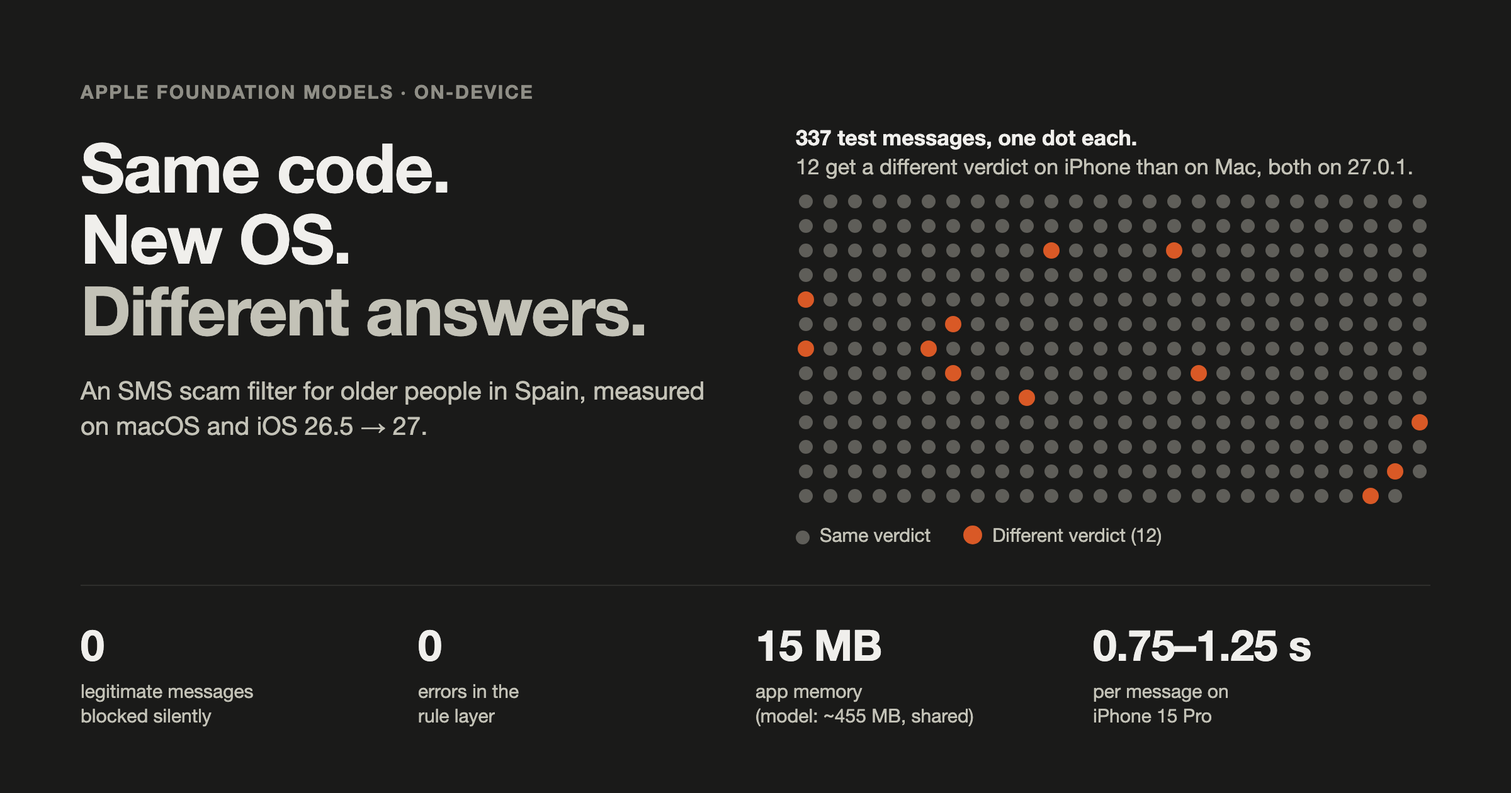
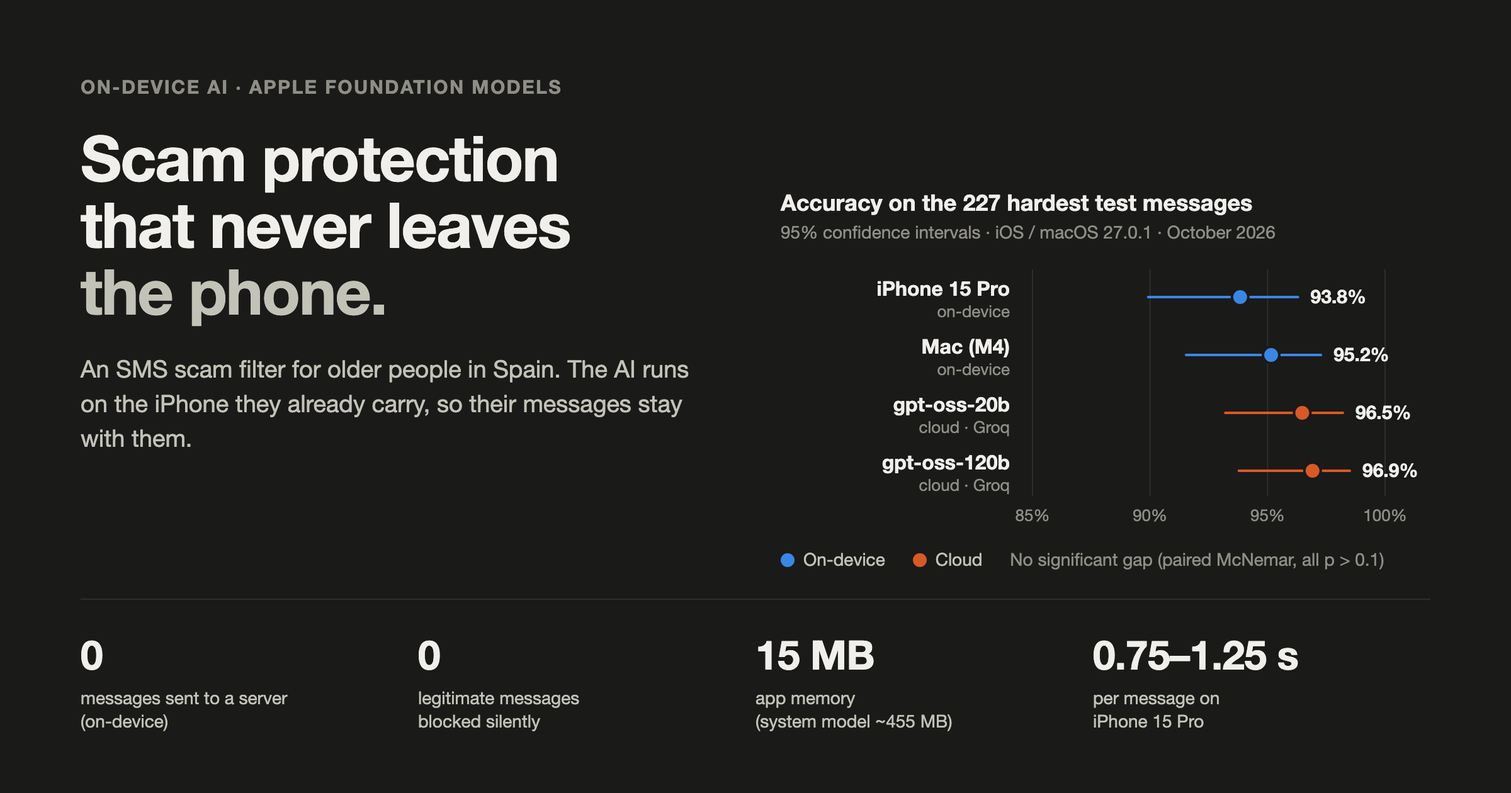
Redesign hero image around results and motivation

diff --git a/assets/hero.html b/assets/hero.html
@@ -1,30 +1,32 @@
 <!doctype html><html><head><meta charset="utf-8">
 <style>
-:root { --surface:#1a1a19; --text:#f0efec; --text2:#c3c2b7; --muted:#8f8e86; --rest:#5f5e59; --hi:#d95926; --rule:#2e2e2c; }
+:root { --surface:#1a1a19; --text:#f0efec; --text2:#c3c2b7; --muted:#8f8e86; --grid:#2e2e2c; --rule:#2e2e2c; --dev:#3987e5; --cloud:#d95926; }
 * { margin:0; box-sizing:border-box; }
 html,body { width:1200px; height:630px; background:var(--surface); font-family:-apple-system,"SF Pro Display","Helvetica Neue",Arial,sans-serif; color:var(--text); overflow:hidden; }
-.left { position:absolute; left:64px; top:64px; width:520px; }
+.left { position:absolute; left:64px; top:60px; width:500px; }
 .eyebrow { font-size:15px; letter-spacing:.08em; text-transform:uppercase; color:var(--muted); font-weight:600; }
-h1 { font-size:54px; line-height:1.05; font-weight:700; letter-spacing:-.02em; margin-top:22px; }
-h1 span { color:var(--text2); font-weight:600; }
-.sub { font-size:20px; line-height:1.4; color:var(--text2); margin-top:22px; }
-.cap { position:absolute; left:632px; top:98px; width:520px; font-size:17px; color:var(--text2); line-height:1.35; }
-.cap b { color:var(--text); font-weight:600; }
-.legend { position:absolute; left:632px; top:416px; font-size:15px; color:var(--text2); display:flex; gap:26px; }
-.legend i { display:inline-block; border-radius:50%; margin-right:8px; vertical-align:-2px; }
-.stats { position:absolute; left:64px; right:64px; bottom:52px; display:flex; border-top:1px solid var(--rule); padding-top:26px; }
+h1 { font-size:50px; line-height:1.06; font-weight:700; letter-spacing:-.02em; margin-top:20px; }
+h1 span { color:var(--text2); }
+.sub { font-size:19px; line-height:1.45; color:var(--text2); margin-top:22px; }
+.ct { position:absolute; left:620px; top:150px; width:520px; }
+.ct b { display:block; font-size:18px; font-weight:600; }
+.ct span { display:block; font-size:14px; color:var(--muted); margin-top:4px; }
+.legend { position:absolute; left:620px; top:436px; font-size:14px; color:var(--text2); display:flex; gap:22px; align-items:center; }
+.legend i { display:inline-block; width:11px; height:11px; border-radius:50%; margin-right:7px; vertical-align:-1px; }
+.legend em { font-style:normal; color:var(--muted); }
+.stats { position:absolute; left:64px; right:64px; bottom:48px; display:flex; border-top:1px solid var(--rule); padding-top:24px; }
 .stat { flex:1; }
-.stat .v { font-size:34px; font-weight:700; letter-spacing:-.01em; }
-.stat .l { font-size:15px; color:var(--text2); margin-top:6px; line-height:1.3; }
-svg { position:absolute; left:0; top:0; }
+.stat .v { font-size:32px; font-weight:700; letter-spacing:-.01em; }
+.stat .l { font-size:14px; color:var(--text2); margin-top:6px; line-height:1.3; }
+svg { position:absolute; left:0; top:0; font-family:inherit; }
 </style></head><body>
 <div class="left">
-  <div class="eyebrow">Apple Foundation Models · on-device</div>
-  <h1>Same code.<br>New OS.<br><span>Different answers.</span></h1>
-  <div class="sub">An SMS scam filter for older people in Spain, measured on macOS&nbsp;and&nbsp;iOS 26.5&nbsp;→&nbsp;27.</div>
+  <div class="eyebrow">On-device AI · Apple Foundation Models</div>
+  <h1>Scam protection<br>that never leaves<br><span>the phone.</span></h1>
+  <div class="sub">An SMS scam filter for older people in Spain. The AI runs on the iPhone they already carry, so their messages stay with them.</div>
 </div>
-<div class="cap"><b>337 test messages, one dot each.</b><br>12 get a different verdict on iPhone than on Mac, both on 27.0.1.</div>
-<svg width="1200" height="630" viewBox="0 0 1200 630"><circle cx="640.0" cy="160.0" r="5.5" fill="var(--rest)"/><circle cx="659.5" cy="160.0" r="5.5" fill="var(--rest)"/><circle cx="679.0" cy="160.0" r="5.5" fill="var(--rest)"/><circle cx="698.5" cy="160.0" r="5.5" fill="var(--rest)"/><circle cx="718.0" cy="160.0" r="5.5" fill="var(--rest)"/><circle cx="737.5" cy="160.0" r="5.5" fill="var(--rest)"/><circle cx="757.0" cy="160.0" r="5.5" fill="var(--rest)"/><circle cx="776.5" cy="160.0" r="5.5" fill="var(--rest)"/><circle cx="796.0" cy="160.0" r="5.5" fill="var(--rest)"/><circle cx="815.5" cy="160.0" r="5.5" fill="var(--rest)"/><circle cx="835.0" cy="160.0" r="5.5" fill="var(--rest)"/><circle cx="854.5" cy="160.0" r="5.5" fill="var(--rest)"/><circle cx="874.0" cy="160.0" r="5.5" fill="var(--rest)"/><circle cx="893.5" cy="160.0" r="5.5" fill="var(--rest)"/><circle cx="913.0" cy="160.0" r="5.5" fill="var(--rest)"/><circle cx="932.5" cy="160.0" r="5.5" fill="var(--rest)"/><circle cx="952.0" cy="160.0" r="5.5" fill="var(--rest)"/><circle cx="971.5" cy="160.0" r="5.5" fill="var(--rest)"/><circle cx="991.0" cy="160.0" r="5.5" fill="var(--rest)"/><circle cx="1010.5" cy="160.0" r="5.5" fill="var(--rest)"/><circle cx="1030.0" cy="160.0" r="5.5" fill="var(--rest)"/><circle cx="1049.5" cy="160.0" r="5.5" fill="var(--rest)"/><circle cx="1069.0" cy="160.0" r="5.5" fill="var(--rest)"/><circle cx="1088.5" cy="160.0" r="5.5" fill="var(--rest)"/><circle cx="1108.0" cy="160.0" r="5.5" fill="var(--rest)"/><circle cx="1127.5" cy="160.0" r="5.5" fill="var(--rest)"/><circle cx="640.0" cy="179.5" r="5.5" fill="var(--rest)"/><circle cx="659.5" cy="179.5" r="5.5" fill="var(--rest)"/><circle cx="679.0" cy="179.5" r="5.5" fill="var(--rest)"/><circle cx="698.5" cy="179.5" r="5.5" fill="var(--rest)"/><circle cx="718.0" cy="179.5" r="5.5" fill="var(--rest)"/><circle cx="737.5" cy="179.5" r="5.5" fill="var(--rest)"/><circle cx="757.0" cy="179.5" r="5.5" fill="var(--rest)"/><circle cx="776.5" cy="179.5" r="5.5" fill="var(--rest)"/><circle cx="796.0" cy="179.5" r="5.5" fill="var(--rest)"/><circle cx="815.5" cy="179.5" r="5.5" fill="var(--rest)"/><circle cx="835.0" cy="179.5" r="5.5" fill="var(--rest)"/><circle cx="854.5" cy="179.5" r="5.5" fill="var(--rest)"/><circle cx="874.0" cy="179.5" r="5.5" fill="var(--rest)"/><circle cx="893.5" cy="179.5" r="5.5" fill="var(--rest)"/><circle cx="913.0" cy="179.5" r="5.5" fill="var(--rest)"/><circle cx="932.5" cy="179.5" r="5.5" fill="var(--rest)"/><circle cx="952.0" cy="179.5" r="5.5" fill="var(--rest)"/><circle cx="971.5" cy="179.5" r="5.5" fill="var(--rest)"/><circle cx="991.0" cy="179.5" r="5.5" fill="var(--rest)"/><circle cx="1010.5" cy="179.5" r="5.5" fill="var(--rest)"/><circle cx="1030.0" cy="179.5" r="5.5" fill="var(--rest)"/><circle cx="1049.5" cy="179.5" r="5.5" fill="var(--rest)"/><circle cx="1069.0" cy="179.5" r="5.5" fill="var(--rest)"/><circle cx="1088.5" cy="179.5" r="5.5" fill="var(--rest)"/><circle cx="1108.0" cy="179.5" r="5.5" fill="var(--rest)"/><circle cx="1127.5" cy="179.5" r="5.5" fill="var(--rest)"/><circle cx="640.0" cy="199.0" r="5.5" fill="var(--rest)"/><circle cx="659.5" cy="199.0" r="5.5" fill="var(--rest)"/><circle cx="679.0" cy="199.0" r="5.5" fill="var(--rest)"/><circle cx="698.5" cy="199.0" r="5.5" fill="var(--rest)"/><circle cx="718.0" cy="199.0" r="5.5" fill="var(--rest)"/><circle cx="737.5" cy="199.0" r="5.5" fill="var(--rest)"/><circle cx="757.0" cy="199.0" r="5.5" fill="var(--rest)"/><circle cx="776.5" cy="199.0" r="5.5" fill="var(--rest)"/><circle cx="796.0" cy="199.0" r="5.5" fill="var(--rest)"/><circle cx="815.5" cy="199.0" r="5.5" fill="var(--rest)"/><circle cx="835.0" cy="199.0" r="7.5" fill="var(--hi)" stroke="var(--surface)" stroke-width="2"/><circle cx="854.5" cy="199.0" r="5.5" fill="var(--rest)"/><circle cx="874.0" cy="199.0" r="5.5" fill="var(--rest)"/><circle cx="893.5" cy="199.0" r="5.5" fill="var(--rest)"/><circle cx="913.0" cy="199.0" r="5.5" fill="var(--rest)"/><circle cx="932.5" cy="199.0" r="7.5" fill="var(--hi)" stroke="var(--surface)" stroke-width="2"/><circle cx="952.0" cy="199.0" r="5.5" fill="var(--rest)"/><circle cx="971.5" cy="199.0" r="5.5" fill="var(--rest)"/><circle cx="991.0" cy="199.0" r="5.5" fill="var(--rest)"/><circle cx="1010.5" cy="199.0" r="5.5" fill="var(--rest)"/><circle cx="1030.0" cy="199.0" r="5.5" fill="var(--rest)"/><circle cx="1049.5" cy="199.0" r="5.5" fill="var(--rest)"/><circle cx="1069.0" cy="199.0" r="5.5" fill="var(--rest)"/><circle cx="1088.5" cy="199.0" r="5.5" fill="var(--rest)"/><circle cx="1108.0" cy="199.0" r="5.5" fill="var(--rest)"/><circle cx="1127.5" cy="199.0" r="5.5" fill="var(--rest)"/><circle cx="640.0" cy="218.5" r="5.5" fill="var(--rest)"/><circle cx="659.5" cy="218.5" r="5.5" fill="var(--rest)"/><circle cx="679.0" cy="218.5" r="5.5" fill="var(--rest)"/><circle cx="698.5" cy="218.5" r="5.5" fill="var(--rest)"/><circle cx="718.0" cy="218.5" r="5.5" fill="var(--rest)"/><circle cx="737.5" cy="218.5" r="5.5" fill="var(--rest)"/><circle cx="757.0" cy="218.5" r="5.5" fill="var(--rest)"/><circle cx="776.5" cy="218.5" r="5.5" fill="var(--rest)"/><circle cx="796.0" cy="218.5" r="5.5" fill="var(--rest)"/><circle cx="815.5" cy="218.5" r="5.5" fill="var(--rest)"/><circle cx="835.0" cy="218.5" r="5.5" fill="var(--rest)"/><circle cx="854.5" cy="218.5" r="5.5" fill="var(--rest)"/><circle cx="874.0" cy="218.5" r="5.5" fill="var(--rest)"/><circle cx="893.5" cy="218.5" r="5.5" fill="var(--rest)"/><circle cx="913.0" cy="218.5" r="5.5" fill="var(--rest)"/><circle cx="932.5" cy="218.5" r="5.5" fill="var(--rest)"/><circle cx="952.0" cy="218.5" r="5.5" fill="var(--rest)"/><circle cx="971.5" cy="218.5" r="5.5" fill="var(--rest)"/><circle cx="991.0" cy="218.5" r="5.5" fill="var(--rest)"/><circle cx="1010.5" cy="218.5" r="5.5" fill="var(--rest)"/><circle cx="1030.0" cy="218.5" r="5.5" fill="var(--rest)"/><circle cx="1049.5" cy="218.5" r="5.5" fill="var(--rest)"/><circle cx="1069.0" cy="218.5" r="5.5" fill="var(--rest)"/><circle cx="1088.5" cy="218.5" r="5.5" fill="var(--rest)"/><circle cx="1108.0" cy="218.5" r="5.5" fill="var(--rest)"/><circle cx="1127.5" cy="218.5" r="5.5" fill="var(--rest)"/><circle cx="640.0" cy="238.0" r="7.5" fill="var(--hi)" stroke="var(--surface)" stroke-width="2"/><circle cx="659.5" cy="238.0" r="5.5" fill="var(--rest)"/><circle cx="679.0" cy="238.0" r="5.5" fill="var(--rest)"/><circle cx="698.5" cy="238.0" r="5.5" fill="var(--rest)"/><circle cx="718.0" cy="238.0" r="5.5" fill="var(--rest)"/><circle cx="737.5" cy="238.0" r="5.5" fill="var(--rest)"/><circle cx="757.0" cy="238.0" r="5.5" fill="var(--rest)"/><circle cx="776.5" cy="238.0" r="5.5" fill="var(--rest)"/><circle cx="796.0" cy="238.0" r="5.5" fill="var(--rest)"/><circle cx="815.5" cy="238.0" r="5.5" fill="var(--rest)"/><circle cx="835.0" cy="238.0" r="5.5" fill="var(--rest)"/><circle cx="854.5" cy="238.0" r="5.5" fill="var(--rest)"/><circle cx="874.0" cy="238.0" r="5.5" fill="var(--rest)"/><circle cx="893.5" cy="238.0" r="5.5" fill="var(--rest)"/><circle cx="913.0" cy="238.0" r="5.5" fill="var(--rest)"/><circle cx="932.5" cy="238.0" r="5.5" fill="var(--rest)"/><circle cx="952.0" cy="238.0" r="5.5" fill="var(--rest)"/><circle cx="971.5" cy="238.0" r="5.5" fill="var(--rest)"/><circle cx="991.0" cy="238.0" r="5.5" fill="var(--rest)"/><circle cx="1010.5" cy="238.0" r="5.5" fill="var(--rest)"/><circle cx="1030.0" cy="238.0" r="5.5" fill="var(--rest)"/><circle cx="1049.5" cy="238.0" r="5.5" fill="var(--rest)"/><circle cx="1069.0" cy="238.0" r="5.5" fill="var(--rest)"/><circle cx="1088.5" cy="238.0" r="5.5" fill="var(--rest)"/><circle cx="1108.0" cy="238.0" r="5.5" fill="var(--rest)"/><circle cx="1127.5" cy="238.0" r="5.5" fill="var(--rest)"/><circle cx="640.0" cy="257.5" r="5.5" fill="var(--rest)"/><circle cx="659.5" cy="257.5" r="5.5" fill="var(--rest)"/><circle cx="679.0" cy="257.5" r="5.5" fill="var(--rest)"/><circle cx="698.5" cy="257.5" r="5.5" fill="var(--rest)"/><circle cx="718.0" cy="257.5" r="5.5" fill="var(--rest)"/><circle cx="737.5" cy="257.5" r="5.5" fill="var(--rest)"/><circle cx="757.0" cy="257.5" r="7.5" fill="var(--hi)" stroke="var(--surface)" stroke-width="2"/><circle cx="776.5" cy="257.5" r="5.5" fill="var(--rest)"/><circle cx="796.0" cy="257.5" r="5.5" fill="var(--rest)"/><circle cx="815.5" cy="257.5" r="5.5" fill="var(--rest)"/><circle cx="835.0" cy="257.5" r="5.5" fill="var(--rest)"/><circle cx="854.5" cy="257.5" r="5.5" fill="var(--rest)"/><circle cx="874.0" cy="257.5" r="5.5" fill="var(--rest)"/><circle cx="893.5" cy="257.5" r="5.5" fill="var(--rest)"/><circle cx="913.0" cy="257.5" r="5.5" fill="var(--rest)"/><circle cx="932.5" cy="257.5" r="5.5" fill="var(--rest)"/><circle cx="952.0" cy="257.5" r="5.5" fill="var(--rest)"/><circle cx="971.5" cy="257.5" r="5.5" fill="var(--rest)"/><circle cx="991.0" cy="257.5" r="5.5" fill="var(--rest)"/><circle cx="1010.5" cy="257.5" r="5.5" fill="var(--rest)"/><circle cx="1030.0" cy="257.5" r="5.5" fill="var(--rest)"/><circle cx="1049.5" cy="257.5" r="5.5" fill="var(--rest)"/><circle cx="1069.0" cy="257.5" r="5.5" fill="var(--rest)"/><circle cx="1088.5" cy="257.5" r="5.5" fill="var(--rest)"/><circle cx="1108.0" cy="257.5" r="5.5" fill="var(--rest)"/><circle cx="1127.5" cy="257.5" r="5.5" fill="var(--rest)"/><circle cx="640.0" cy="277.0" r="7.5" fill="var(--hi)" stroke="var(--surface)" stroke-width="2"/><circle cx="659.5" cy="277.0" r="5.5" fill="var(--rest)"/><circle cx="679.0" cy="277.0" r="5.5" fill="var(--rest)"/><circle cx="698.5" cy="277.0" r="5.5" fill="var(--rest)"/><circle cx="718.0" cy="277.0" r="5.5" fill="var(--rest)"/><circle cx="737.5" cy="277.0" r="7.5" fill="var(--hi)" stroke="var(--surface)" stroke-width="2"/><circle cx="757.0" cy="277.0" r="5.5" fill="var(--rest)"/><circle cx="776.5" cy="277.0" r="5.5" fill="var(--rest)"/><circle cx="796.0" cy="277.0" r="5.5" fill="var(--rest)"/><circle cx="815.5" cy="277.0" r="5.5" fill="var(--rest)"/><circle cx="835.0" cy="277.0" r="5.5" fill="var(--rest)"/><circle cx="854.5" cy="277.0" r="5.5" fill="var(--rest)"/><circle cx="874.0" cy="277.0" r="5.5" fill="var(--rest)"/><circle cx="893.5" cy="277.0" r="5.5" fill="var(--rest)"/><circle cx="913.0" cy="277.0" r="5.5" fill="var(--rest)"/><circle cx="932.5" cy="277.0" r="5.5" fill="var(--rest)"/><circle cx="952.0" cy="277.0" r="5.5" fill="var(--rest)"/><circle cx="971.5" cy="277.0" r="5.5" fill="var(--rest)"/><circle cx="991.0" cy="277.0" r="5.5" fill="var(--rest)"/><circle cx="1010.5" cy="277.0" r="5.5" fill="var(--rest)"/><circle cx="1030.0" cy="277.0" r="5.5" fill="var(--rest)"/><circle cx="1049.5" cy="277.0" r="5.5" fill="var(--rest)"/><circle cx="1069.0" cy="277.0" r="5.5" fill="var(--rest)"/><circle cx="1088.5" cy="277.0" r="5.5" fill="var(--rest)"/><circle cx="1108.0" cy="277.0" r="5.5" fill="var(--rest)"/><circle cx="1127.5" cy="277.0" r="5.5" fill="var(--rest)"/><circle cx="640.0" cy="296.5" r="5.5" fill="var(--rest)"/><circle cx="659.5" cy="296.5" r="5.5" fill="var(--rest)"/><circle cx="679.0" cy="296.5" r="5.5" fill="var(--rest)"/><circle cx="698.5" cy="296.5" r="5.5" fill="var(--rest)"/><circle cx="718.0" cy="296.5" r="5.5" fill="var(--rest)"/><circle cx="737.5" cy="296.5" r="5.5" fill="var(--rest)"/><circle cx="757.0" cy="296.5" r="7.5" fill="var(--hi)" stroke="var(--surface)" stroke-width="2"/><circle cx="776.5" cy="296.5" r="5.5" fill="var(--rest)"/><circle cx="796.0" cy="296.5" r="5.5" fill="var(--rest)"/><circle cx="815.5" cy="296.5" r="5.5" fill="var(--rest)"/><circle cx="835.0" cy="296.5" r="5.5" fill="var(--rest)"/><circle cx="854.5" cy="296.5" r="5.5" fill="var(--rest)"/><circle cx="874.0" cy="296.5" r="5.5" fill="var(--rest)"/><circle cx="893.5" cy="296.5" r="5.5" fill="var(--rest)"/><circle cx="913.0" cy="296.5" r="5.5" fill="var(--rest)"/><circle cx="932.5" cy="296.5" r="5.5" fill="var(--rest)"/><circle cx="952.0" cy="296.5" r="7.5" fill="var(--hi)" stroke="var(--surface)" stroke-width="2"/><circle cx="971.5" cy="296.5" r="5.5" fill="var(--rest)"/><circle cx="991.0" cy="296.5" r="5.5" fill="var(--rest)"/><circle cx="1010.5" cy="296.5" r="5.5" fill="var(--rest)"/><circle cx="1030.0" cy="296.5" r="5.5" fill="var(--rest)"/><circle cx="1049.5" cy="296.5" r="5.5" fill="var(--rest)"/><circle cx="1069.0" cy="296.5" r="5.5" fill="var(--rest)"/><circle cx="1088.5" cy="296.5" r="5.5" fill="var(--rest)"/><circle cx="1108.0" cy="296.5" r="5.5" fill="var(--rest)"/><circle cx="1127.5" cy="296.5" r="5.5" fill="var(--rest)"/><circle cx="640.0" cy="316.0" r="5.5" fill="var(--rest)"/><circle cx="659.5" cy="316.0" r="5.5" fill="var(--rest)"/><circle cx="679.0" cy="316.0" r="5.5" fill="var(--rest)"/><circle cx="698.5" cy="316.0" r="5.5" fill="var(--rest)"/><circle cx="718.0" cy="316.0" r="5.5" fill="var(--rest)"/><circle cx="737.5" cy="316.0" r="5.5" fill="var(--rest)"/><circle cx="757.0" cy="316.0" r="5.5" fill="var(--rest)"/><circle cx="776.5" cy="316.0" r="5.5" fill="var(--rest)"/><circle cx="796.0" cy="316.0" r="5.5" fill="var(--rest)"/><circle cx="815.5" cy="316.0" r="7.5" fill="var(--hi)" stroke="var(--surface)" stroke-width="2"/><circle cx="835.0" cy="316.0" r="5.5" fill="var(--rest)"/><circle cx="854.5" cy="316.0" r="5.5" fill="var(--rest)"/><circle cx="874.0" cy="316.0" r="5.5" fill="var(--rest)"/><circle cx="893.5" cy="316.0" r="5.5" fill="var(--rest)"/><circle cx="913.0" cy="316.0" r="5.5" fill="var(--rest)"/><circle cx="932.5" cy="316.0" r="5.5" fill="var(--rest)"/><circle cx="952.0" cy="316.0" r="5.5" fill="var(--rest)"/><circle cx="971.5" cy="316.0" r="5.5" fill="var(--rest)"/><circle cx="991.0" cy="316.0" r="5.5" fill="var(--rest)"/><circle cx="1010.5" cy="316.0" r="5.5" fill="var(--rest)"/><circle cx="1030.0" cy="316.0" r="5.5" fill="var(--rest)"/><circle cx="1049.5" cy="316.0" r="5.5" fill="var(--rest)"/><circle cx="1069.0" cy="316.0" r="5.5" fill="var(--rest)"/><circle cx="1088.5" cy="316.0" r="5.5" fill="var(--rest)"/><circle cx="1108.0" cy="316.0" r="5.5" fill="var(--rest)"/><circle cx="1127.5" cy="316.0" r="5.5" fill="var(--rest)"/><circle cx="640.0" cy="335.5" r="5.5" fill="var(--rest)"/><circle cx="659.5" cy="335.5" r="5.5" fill="var(--rest)"/><circle cx="679.0" cy="335.5" r="5.5" fill="var(--rest)"/><circle cx="698.5" cy="335.5" r="5.5" fill="var(--rest)"/><circle cx="718.0" cy="335.5" r="5.5" fill="var(--rest)"/><circle cx="737.5" cy="335.5" r="5.5" fill="var(--rest)"/><circle cx="757.0" cy="335.5" r="5.5" fill="var(--rest)"/><circle cx="776.5" cy="335.5" r="5.5" fill="var(--rest)"/><circle cx="796.0" cy="335.5" r="5.5" fill="var(--rest)"/><circle cx="815.5" cy="335.5" r="5.5" fill="var(--rest)"/><circle cx="835.0" cy="335.5" r="5.5" fill="var(--rest)"/><circle cx="854.5" cy="335.5" r="5.5" fill="var(--rest)"/><circle cx="874.0" cy="335.5" r="5.5" fill="var(--rest)"/><circle cx="893.5" cy="335.5" r="5.5" fill="var(--rest)"/><circle cx="913.0" cy="335.5" r="5.5" fill="var(--rest)"/><circle cx="932.5" cy="335.5" r="5.5" fill="var(--rest)"/><circle cx="952.0" cy="335.5" r="5.5" fill="var(--rest)"/><circle cx="971.5" cy="335.5" r="5.5" fill="var(--rest)"/><circle cx="991.0" cy="335.5" r="5.5" fill="var(--rest)"/><circle cx="1010.5" cy="335.5" r="5.5" fill="var(--rest)"/><circle cx="1030.0" cy="335.5" r="5.5" fill="var(--rest)"/><circle cx="1049.5" cy="335.5" r="5.5" fill="var(--rest)"/><circle cx="1069.0" cy="335.5" r="5.5" fill="var(--rest)"/><circle cx="1088.5" cy="335.5" r="5.5" fill="var(--rest)"/><circle cx="1108.0" cy="335.5" r="5.5" fill="var(--rest)"/><circle cx="1127.5" cy="335.5" r="7.5" fill="var(--hi)" stroke="var(--surface)" stroke-width="2"/><circle cx="640.0" cy="355.0" r="5.5" fill="var(--rest)"/><circle cx="659.5" cy="355.0" r="5.5" fill="var(--rest)"/><circle cx="679.0" cy="355.0" r="5.5" fill="var(--rest)"/><circle cx="698.5" cy="355.0" r="5.5" fill="var(--rest)"/><circle cx="718.0" cy="355.0" r="5.5" fill="var(--rest)"/><circle cx="737.5" cy="355.0" r="5.5" fill="var(--rest)"/><circle cx="757.0" cy="355.0" r="5.5" fill="var(--rest)"/><circle cx="776.5" cy="355.0" r="5.5" fill="var(--rest)"/><circle cx="796.0" cy="355.0" r="5.5" fill="var(--rest)"/><circle cx="815.5" cy="355.0" r="5.5" fill="var(--rest)"/><circle cx="835.0" cy="355.0" r="5.5" fill="var(--rest)"/><circle cx="854.5" cy="355.0" r="5.5" fill="var(--rest)"/><circle cx="874.0" cy="355.0" r="5.5" fill="var(--rest)"/><circle cx="893.5" cy="355.0" r="5.5" fill="var(--rest)"/><circle cx="913.0" cy="355.0" r="5.5" fill="var(--rest)"/><circle cx="932.5" cy="355.0" r="5.5" fill="var(--rest)"/><circle cx="952.0" cy="355.0" r="5.5" fill="var(--rest)"/><circle cx="971.5" cy="355.0" r="5.5" fill="var(--rest)"/><circle cx="991.0" cy="355.0" r="5.5" fill="var(--rest)"/><circle cx="1010.5" cy="355.0" r="5.5" fill="var(--rest)"/><circle cx="1030.0" cy="355.0" r="5.5" fill="var(--rest)"/><circle cx="1049.5" cy="355.0" r="5.5" fill="var(--rest)"/><circle cx="1069.0" cy="355.0" r="5.5" fill="var(--rest)"/><circle cx="1088.5" cy="355.0" r="5.5" fill="var(--rest)"/><circle cx="1108.0" cy="355.0" r="5.5" fill="var(--rest)"/><circle cx="1127.5" cy="355.0" r="5.5" fill="var(--rest)"/><circle cx="640.0" cy="374.5" r="5.5" fill="var(--rest)"/><circle cx="659.5" cy="374.5" r="5.5" fill="var(--rest)"/><circle cx="679.0" cy="374.5" r="5.5" fill="var(--rest)"/><circle cx="698.5" cy="374.5" r="5.5" fill="var(--rest)"/><circle cx="718.0" cy="374.5" r="5.5" fill="var(--rest)"/><circle cx="737.5" cy="374.5" r="5.5" fill="var(--rest)"/><circle cx="757.0" cy="374.5" r="5.5" fill="var(--rest)"/><circle cx="776.5" cy="374.5" r="5.5" fill="var(--rest)"/><circle cx="796.0" cy="374.5" r="5.5" fill="var(--rest)"/><circle cx="815.5" cy="374.5" r="5.5" fill="var(--rest)"/><circle cx="835.0" cy="374.5" r="5.5" fill="var(--rest)"/><circle cx="854.5" cy="374.5" r="5.5" fill="var(--rest)"/><circle cx="874.0" cy="374.5" r="5.5" fill="var(--rest)"/><circle cx="893.5" cy="374.5" r="5.5" fill="var(--rest)"/><circle cx="913.0" cy="374.5" r="5.5" fill="var(--rest)"/><circle cx="932.5" cy="374.5" r="5.5" fill="var(--rest)"/><circle cx="952.0" cy="374.5" r="5.5" fill="var(--rest)"/><circle cx="971.5" cy="374.5" r="5.5" fill="var(--rest)"/><circle cx="991.0" cy="374.5" r="5.5" fill="var(--rest)"/><circle cx="1010.5" cy="374.5" r="5.5" fill="var(--rest)"/><circle cx="1030.0" cy="374.5" r="5.5" fill="var(--rest)"/><circle cx="1049.5" cy="374.5" r="5.5" fill="var(--rest)"/><circle cx="1069.0" cy="374.5" r="5.5" fill="var(--rest)"/><circle cx="1088.5" cy="374.5" r="5.5" fill="var(--rest)"/><circle cx="1108.0" cy="374.5" r="7.5" fill="var(--hi)" stroke="var(--surface)" stroke-width="2"/><circle cx="1127.5" cy="374.5" r="5.5" fill="var(--rest)"/><circle cx="640.0" cy="394.0" r="5.5" fill="var(--rest)"/><circle cx="659.5" cy="394.0" r="5.5" fill="var(--rest)"/><circle cx="679.0" cy="394.0" r="5.5" fill="var(--rest)"/><circle cx="698.5" cy="394.0" r="5.5" fill="var(--rest)"/><circle cx="718.0" cy="394.0" r="5.5" fill="var(--rest)"/><circle cx="737.5" cy="394.0" r="5.5" fill="var(--rest)"/><circle cx="757.0" cy="394.0" r="5.5" fill="var(--rest)"/><circle cx="776.5" cy="394.0" r="5.5" fill="var(--rest)"/><circle cx="796.0" cy="394.0" r="5.5" fill="var(--rest)"/><circle cx="815.5" cy="394.0" r="5.5" fill="var(--rest)"/><circle cx="835.0" cy="394.0" r="5.5" fill="var(--rest)"/><circle cx="854.5" cy="394.0" r="5.5" fill="var(--rest)"/><circle cx="874.0" cy="394.0" r="5.5" fill="var(--rest)"/><circle cx="893.5" cy="394.0" r="5.5" fill="var(--rest)"/><circle cx="913.0" cy="394.0" r="5.5" fill="var(--rest)"/><circle cx="932.5" cy="394.0" r="5.5" fill="var(--rest)"/><circle cx="952.0" cy="394.0" r="5.5" fill="var(--rest)"/><circle cx="971.5" cy="394.0" r="5.5" fill="var(--rest)"/><circle cx="991.0" cy="394.0" r="5.5" fill="var(--rest)"/><circle cx="1010.5" cy="394.0" r="5.5" fill="var(--rest)"/><circle cx="1030.0" cy="394.0" r="5.5" fill="var(--rest)"/><circle cx="1049.5" cy="394.0" r="5.5" fill="var(--rest)"/><circle cx="1069.0" cy="394.0" r="5.5" fill="var(--rest)"/><circle cx="1088.5" cy="394.0" r="7.5" fill="var(--hi)" stroke="var(--surface)" stroke-width="2"/><circle cx="1108.0" cy="394.0" r="5.5" fill="var(--rest)"/></svg>
-<div class="legend"><span><i style="width:11px;height:11px;background:var(--rest)"></i>Same verdict</span><span><i style="width:15px;height:15px;background:var(--hi)"></i>Different verdict (12)</span></div>
-<div class="stats"><div class="stat"><div class="v">0</div><div class="l">legitimate messages<br>blocked silently</div></div><div class="stat"><div class="v">0</div><div class="l">errors in the<br>rule layer</div></div><div class="stat"><div class="v">15 MB</div><div class="l">app memory<br>(model: ~455 MB, shared)</div></div><div class="stat"><div class="v">0.75–1.25 s</div><div class="l">per message on<br>iPhone 15 Pro</div></div></div>
+<div class="ct"><b>Accuracy on the 227 hardest test messages</b><span>95% confidence intervals · iOS / macOS 27.0.1 · October 2026</span></div>
+<svg width="1200" height="630" viewBox="0 0 1200 630"><line x1="820.0" y1="214" x2="820.0" y2="394" stroke="var(--grid)" stroke-width="1"/><text x="820.0" y="414" fill="var(--muted)" font-size="13" text-anchor="middle">85%</text><line x1="913.3" y1="214" x2="913.3" y2="394" stroke="var(--grid)" stroke-width="1"/><text x="913.3" y="414" fill="var(--muted)" font-size="13" text-anchor="middle">90%</text><line x1="1006.7" y1="214" x2="1006.7" y2="394" stroke="var(--grid)" stroke-width="1"/><text x="1006.7" y="414" fill="var(--muted)" font-size="13" text-anchor="middle">95%</text><line x1="1100.0" y1="214" x2="1100.0" y2="394" stroke="var(--grid)" stroke-width="1"/><text x="1100.0" y="414" fill="var(--muted)" font-size="13" text-anchor="middle">100%</text><text x="802" y="235" fill="var(--text)" font-size="16" font-weight="600" text-anchor="end">iPhone 15 Pro</text><text x="802" y="252" fill="var(--muted)" font-size="13" text-anchor="end">on-device</text><line x1="911.8" y1="236" x2="1030.8" y2="236" stroke="var(--dev)" stroke-width="2" stroke-linecap="round"/><circle cx="984.9" cy="236" r="6.5" fill="var(--dev)" stroke="var(--surface)" stroke-width="2"/><text x="1040.8" y="241" fill="var(--text)" font-size="15" font-weight="600">93.8%</text><text x="802" y="281" fill="var(--text)" font-size="16" font-weight="600" text-anchor="end">Mac (M4)</text><text x="802" y="298" fill="var(--muted)" font-size="13" text-anchor="end">on-device</text><line x1="941.9" y1="282" x2="1049.1" y2="282" stroke="var(--dev)" stroke-width="2" stroke-linecap="round"/><circle cx="1009.5" cy="282" r="6.5" fill="var(--dev)" stroke="var(--surface)" stroke-width="2"/><text x="1059.1" y="287" fill="var(--text)" font-size="15" font-weight="600">95.2%</text><text x="802" y="327" fill="var(--text)" font-size="16" font-weight="600" text-anchor="end">gpt-oss-20b</text><text x="802" y="344" fill="var(--muted)" font-size="13" text-anchor="end">cloud · Groq</text><line x1="973.1" y1="328" x2="1066.5" y2="328" stroke="var(--cloud)" stroke-width="2" stroke-linecap="round"/><circle cx="1034.2" cy="328" r="6.5" fill="var(--cloud)" stroke="var(--surface)" stroke-width="2"/><text x="1076.5" y="333" fill="var(--text)" font-size="15" font-weight="600">96.5%</text><text x="802" y="373" fill="var(--text)" font-size="16" font-weight="600" text-anchor="end">gpt-oss-120b</text><text x="802" y="390" fill="var(--muted)" font-size="13" text-anchor="end">cloud · Groq</text><line x1="983.8" y1="374" x2="1072.0" y2="374" stroke="var(--cloud)" stroke-width="2" stroke-linecap="round"/><circle cx="1042.4" cy="374" r="6.5" fill="var(--cloud)" stroke="var(--surface)" stroke-width="2"/><text x="1082.0" y="379" fill="var(--text)" font-size="15" font-weight="600">96.9%</text></svg>
+<div class="legend"><span><i style="background:var(--dev)"></i>On-device</span><span><i style="background:var(--cloud)"></i>Cloud</span><em>No significant gap (paired McNemar, all p&nbsp;&gt;&nbsp;0.1)</em></div>
+<div class="stats"><div class="stat"><div class="v">0</div><div class="l">messages sent to a server<br>(on-device)</div></div><div class="stat"><div class="v">0</div><div class="l">legitimate messages<br>blocked silently</div></div><div class="stat"><div class="v">15 MB</div><div class="l">app memory<br>(system model ~455 MB)</div></div><div class="stat"><div class="v">0.75–1.25 s</div><div class="l">per message on<br>iPhone 15 Pro</div></div></div>
 </body></html>

diff --git a/assets/make_hero.py b/assets/make_hero.py
@@ -3,75 +3,102 @@
 # Then render it to PNG (1200x630 at 2x) with any headless Chromium, for example:
 #   "/Applications/Google Chrome.app/Contents/MacOS/Google Chrome" --headless=new --hide-scrollbars \
 #     --force-device-scale-factor=2 --window-size=1200,630 --screenshot=assets/hero.png "file://$PWD/assets/hero.html"
-import json, csv, sys, os
-repo = sys.argv[1]; out = sys.argv[2]
+import csv, json, math, sys
 
-ids = []
-for d in ["es_curated", "es_adversarial_v2"]:
-    ids += [json.loads(l)["id"] for l in open(f"{repo}/data/{d}.jsonl", encoding="utf-8") if l.strip()]
-assert len(ids) == 337
+repo, out = sys.argv[1], sys.argv[2]
+R = f"{repo}/results/reference"
+labels = {json.loads(l)["id"]: json.loads(l)["label"]
+          for l in open(f"{repo}/data/es_adversarial_v2.jsonl", encoding="utf-8") if l.strip()}
 
-mac = {}
-for d in ["es_curated", "es_adversarial_v2"]:
-    for r in csv.DictReader(open(f"{repo}/results/reference/2026-10_macos27.0.1/{d}_predictions.csv", encoding="utf-8")):
-        mac[r["id"]] = r["pred"]
-ip = {}
-for l in open(f"{repo}/results/reference/2026-10_ios27.0.1_iphone15pro/run1_console.log", encoding="utf-8"):
-    p = l.rstrip("\n").split("\t")
-    if p[0] == "PRED" and p[1] in ("es_curated", "es_adversarial_v2"):
-        ip[p[2]] = p[3]
-diff = {i for i in ids if ip[i] != mac[i]}
-assert len(diff) == 12, len(diff)
+
+def from_csv(p):
+    return {r["id"]: r["pred"] for r in csv.DictReader(open(p, encoding="utf-8"))}
+
+
+def from_log(p):
+    d = {}
+    for l in open(p, encoding="utf-8"):
+        x = l.rstrip("\n").split("\t")
+        if x[0] == "PRED" and x[1] == "es_adversarial_v2":
+            d[x[2]] = x[3]
+    return d
+
+
+def wilson(k, n, z=1.96):
+    p = k / n; d = 1 + z * z / n; c = (p + z * z / (2 * n)) / d
+    h = z * math.sqrt(p * (1 - p) / n + z * z / (4 * n * n)) / d
+    return p, c - h, c + h
+
+
+runs = [  # (label, kind, predictions)
+    ("iPhone 15 Pro", "On-device", from_log(f"{R}/2026-10_ios27.0.1_iphone15pro/run1_console.log")),
+    ("Mac (M4)", "On-device", from_csv(f"{R}/2026-10_macos27.0.1/es_adversarial_v2_predictions.csv")),
+    ("gpt-oss-20b", "Cloud", from_csv(f"{R}/2026-10_groq/adv_v2_g20_run2_predictions.csv")),
+    ("gpt-oss-120b", "Cloud", from_csv(f"{R}/2026-10_groq/adv_v2_g120_run2_predictions.csv")),
+]
+rows = []
+for name, kind, p in runs:
+    k = sum((p[i] == "JUNK") == (labels[i] == "scam") for i in labels)
+    rows.append((name, kind, *wilson(k, len(labels))))
 
 W, H = 1200, 630
-cols, step = 26, 19.5
-gx, gy = 640, 160
-dots = []
-for k, i in enumerate(ids):
-    x = gx + (k % cols) * step; y = gy + (k // cols) * step
-    if i in diff:
-        dots.append(f'<circle cx="{x:.1f}" cy="{y:.1f}" r="7.5" fill="var(--hi)" stroke="var(--surface)" stroke-width="2"/>')
-    else:
-        dots.append(f'<circle cx="{x:.1f}" cy="{y:.1f}" r="5.5" fill="var(--rest)"/>')
-grid_bottom = gy + ((len(ids) - 1) // cols) * step
+px0, px1, lo, hi = 820, 1100, 0.85, 1.00          # plot x-range and value domain
+X = lambda v: px0 + (v - lo) / (hi - lo) * (px1 - px0)
+top, gap = 236, 46
+color = {"On-device": "var(--dev)", "Cloud": "var(--cloud)"}
+
+svg = []
+for t in (0.85, 0.90, 0.95, 1.00):
+    svg.append(f'<line x1="{X(t):.1f}" y1="{top-22}" x2="{X(t):.1f}" y2="{top+gap*3+20}" stroke="var(--grid)" stroke-width="1"/>')
+    svg.append(f'<text x="{X(t):.1f}" y="{top+gap*3+40}" fill="var(--muted)" font-size="13" text-anchor="middle">{int(t*100)}%</text>')
+for r, (name, kind, p, a, b) in enumerate(rows):
+    y = top + r * gap
+    svg.append(f'<text x="{px0-18}" y="{y-1}" fill="var(--text)" font-size="16" font-weight="600" text-anchor="end">{name}</text>')
+    svg.append(f'<text x="{px0-18}" y="{y+16}" fill="var(--muted)" font-size="13" text-anchor="end">{kind.lower()}{" · Groq" if kind == "Cloud" else ""}</text>')
+    svg.append(f'<line x1="{X(a):.1f}" y1="{y}" x2="{X(b):.1f}" y2="{y}" stroke="{color[kind]}" stroke-width="2" stroke-linecap="round"/>')
+    svg.append(f'<circle cx="{X(p):.1f}" cy="{y}" r="6.5" fill="{color[kind]}" stroke="var(--surface)" stroke-width="2"/>')
+    svg.append(f'<text x="{X(b)+10:.1f}" y="{y+5}" fill="var(--text)" font-size="15" font-weight="600">{p*100:.1f}%</text>')
 
 stats = [
+    ("0", "messages sent to a server<br>(on-device)"),
     ("0", "legitimate messages<br>blocked silently"),
-    ("0", "errors in the<br>rule layer"),
-    ("15 MB", "app memory<br>(model: ~455 MB, shared)"),
+    ("15 MB", "app memory<br>(system model ~455 MB)"),
     ("0.75–1.25 s", "per message on<br>iPhone 15 Pro"),
 ]
 stat_html = "".join(f'<div class="stat"><div class="v">{v}</div><div class="l">{l}</div></div>' for v, l in stats)
 
 html = f"""<!doctype html><html><head><meta charset="utf-8">
 <style>
-:root {{ --surface:#1a1a19; --text:#f0efec; --text2:#c3c2b7; --muted:#8f8e86; --rest:#5f5e59; --hi:#d95926; --rule:#2e2e2c; }}
+:root {{ --surface:#1a1a19; --text:#f0efec; --text2:#c3c2b7; --muted:#8f8e86; --grid:#2e2e2c; --rule:#2e2e2c; --dev:#3987e5; --cloud:#d95926; }}
 * {{ margin:0; box-sizing:border-box; }}
 html,body {{ width:{W}px; height:{H}px; background:var(--surface); font-family:-apple-system,"SF Pro Display","Helvetica Neue",Arial,sans-serif; color:var(--text); overflow:hidden; }}
-.left {{ position:absolute; left:64px; top:64px; width:520px; }}
+.left {{ position:absolute; left:64px; top:60px; width:500px; }}
 .eyebrow {{ font-size:15px; letter-spacing:.08em; text-transform:uppercase; color:var(--muted); font-weight:600; }}
-h1 {{ font-size:54px; line-height:1.05; font-weight:700; letter-spacing:-.02em; margin-top:22px; }}
-h1 span {{ color:var(--text2); font-weight:600; }}
-.sub {{ font-size:20px; line-height:1.4; color:var(--text2); margin-top:22px; }}
-.cap {{ position:absolute; left:{gx-8}px; top:{gy-62}px; width:520px; font-size:17px; color:var(--text2); line-height:1.35; }}
-.cap b {{ color:var(--text); font-weight:600; }}
-.legend {{ position:absolute; left:{gx-8}px; top:{grid_bottom+22:.0f}px; font-size:15px; color:var(--text2); display:flex; gap:26px; }}
-.legend i {{ display:inline-block; border-radius:50%; margin-right:8px; vertical-align:-2px; }}
-.stats {{ position:absolute; left:64px; right:64px; bottom:52px; display:flex; border-top:1px solid var(--rule); padding-top:26px; }}
+h1 {{ font-size:50px; line-height:1.06; font-weight:700; letter-spacing:-.02em; margin-top:20px; }}
+h1 span {{ color:var(--text2); }}
+.sub {{ font-size:19px; line-height:1.45; color:var(--text2); margin-top:22px; }}
+.ct {{ position:absolute; left:620px; top:150px; width:520px; }}
+.ct b {{ display:block; font-size:18px; font-weight:600; }}
+.ct span {{ display:block; font-size:14px; color:var(--muted); margin-top:4px; }}
+.legend {{ position:absolute; left:620px; top:{top+gap*3+62}px; font-size:14px; color:var(--text2); display:flex; gap:22px; align-items:center; }}
+.legend i {{ display:inline-block; width:11px; height:11px; border-radius:50%; margin-right:7px; vertical-align:-1px; }}
+.legend em {{ font-style:normal; color:var(--muted); }}
+.stats {{ position:absolute; left:64px; right:64px; bottom:48px; display:flex; border-top:1px solid var(--rule); padding-top:24px; }}
 .stat {{ flex:1; }}
-.stat .v {{ font-size:34px; font-weight:700; letter-spacing:-.01em; }}
-.stat .l {{ font-size:15px; color:var(--text2); margin-top:6px; line-height:1.3; }}
-svg {{ position:absolute; left:0; top:0; }}
+.stat .v {{ font-size:32px; font-weight:700; letter-spacing:-.01em; }}
+.stat .l {{ font-size:14px; color:var(--text2); margin-top:6px; line-height:1.3; }}
+svg {{ position:absolute; left:0; top:0; font-family:inherit; }}
 </style></head><body>
 <div class="left">
-  <div class="eyebrow">Apple Foundation Models · on-device</div>
-  <h1>Same code.<br>New OS.<br><span>Different answers.</span></h1>
-  <div class="sub">An SMS scam filter for older people in Spain, measured on macOS&nbsp;and&nbsp;iOS 26.5&nbsp;→&nbsp;27.</div>
+  <div class="eyebrow">On-device AI · Apple Foundation Models</div>
+  <h1>Scam protection<br>that never leaves<br><span>the phone.</span></h1>
+  <div class="sub">An SMS scam filter for older people in Spain. The AI runs on the iPhone they already carry, so their messages stay with them.</div>
 </div>
-<div class="cap"><b>337 test messages, one dot each.</b><br>12 get a different verdict on iPhone than on Mac, both on 27.0.1.</div>
-<svg width="{W}" height="{H}" viewBox="0 0 {W} {H}">{''.join(dots)}</svg>
-<div class="legend"><span><i style="width:11px;height:11px;background:var(--rest)"></i>Same verdict</span><span><i style="width:15px;height:15px;background:var(--hi)"></i>Different verdict (12)</span></div>
+<div class="ct"><b>Accuracy on the 227 hardest test messages</b><span>95% confidence intervals · iOS / macOS 27.0.1 · October 2026</span></div>
+<svg width="{W}" height="{H}" viewBox="0 0 {W} {H}">{''.join(svg)}</svg>
+<div class="legend"><span><i style="background:var(--dev)"></i>On-device</span><span><i style="background:var(--cloud)"></i>Cloud</span><em>No significant gap (paired McNemar, all p&nbsp;&gt;&nbsp;0.1)</em></div>
 <div class="stats">{stat_html}</div>
 </body></html>"""
 open(out, "w", encoding="utf-8").write(html)
-print("diff ids:", sorted(diff))
+for r in rows:
+    print(f"{r[0]:14} {r[2]*100:.1f}% [{r[3]*100:.1f}, {r[4]*100:.1f}]")

diff --git a/README.md b/README.md
@@ -1,6 +1,6 @@
 # fm-smishing-bench
 
-![Same code. New OS. Different answers. 337 test messages, 12 get a different verdict on iPhone than on Mac.](assets/hero.png)
+![Scam protection that never leaves the phone. Accuracy on the 227 hardest test messages: iPhone 15 Pro on-device 93.8%, Mac on-device 95.2%, gpt-oss-20b in the cloud 96.5%, gpt-oss-120b 96.9%; no pair differs significantly.](assets/hero.png)
 
 A small, reproducible benchmark for detecting SMS scams (smishing) with **Apple's on-device Foundation Models**, compared with open-weight models in the cloud (`gpt-oss` on Groq).
 
